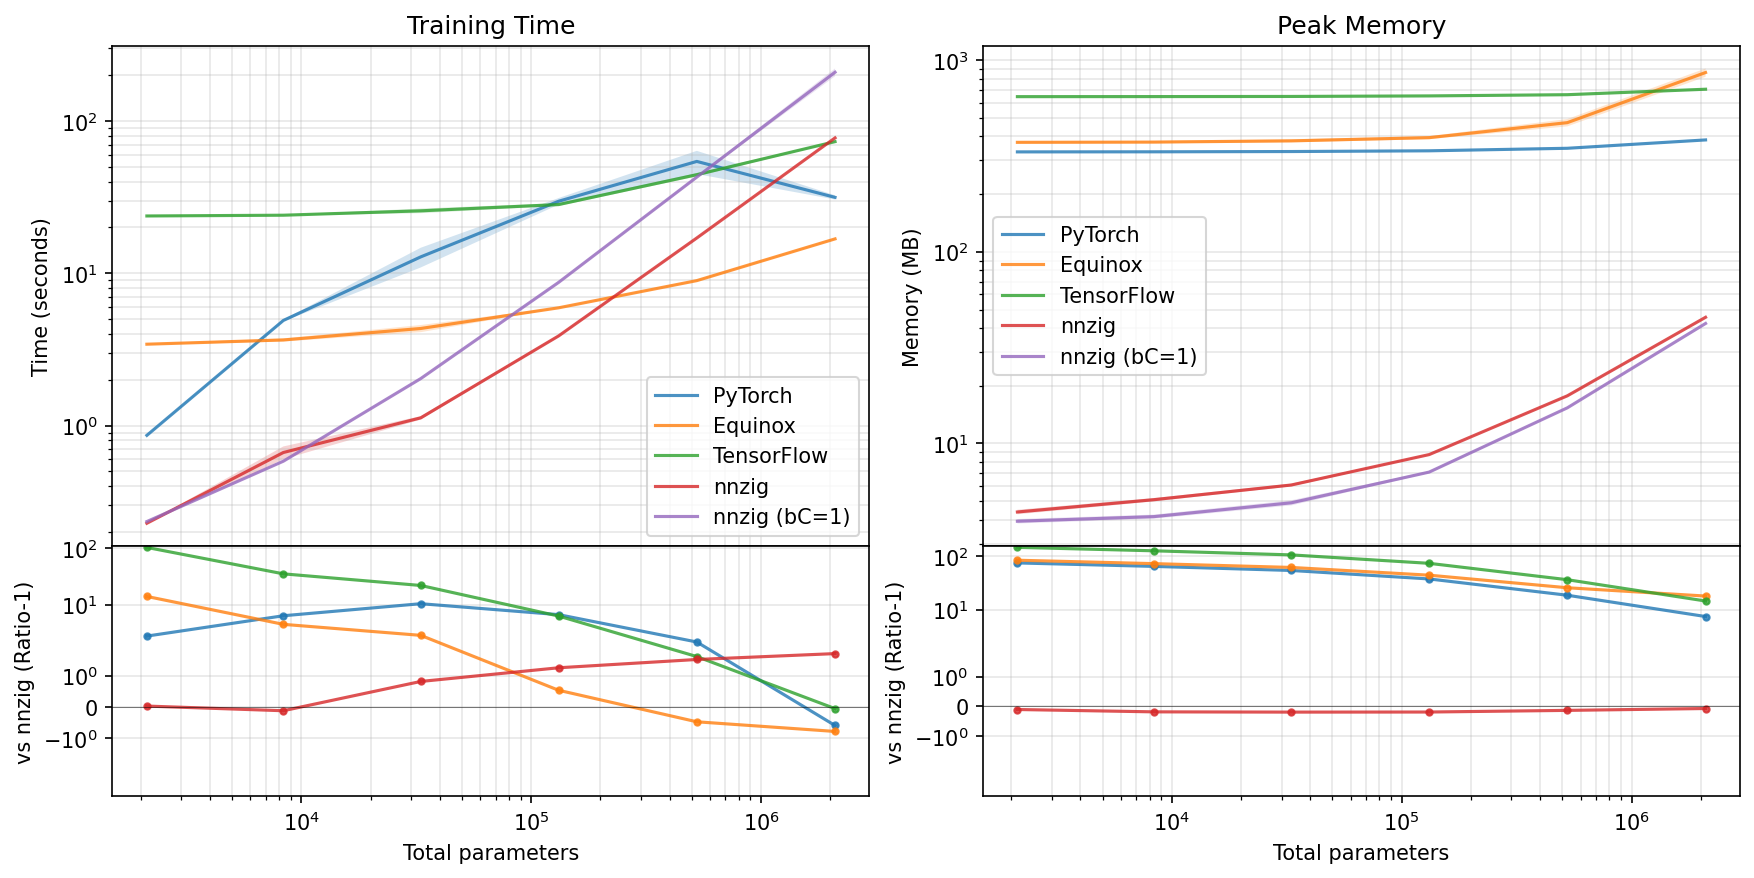
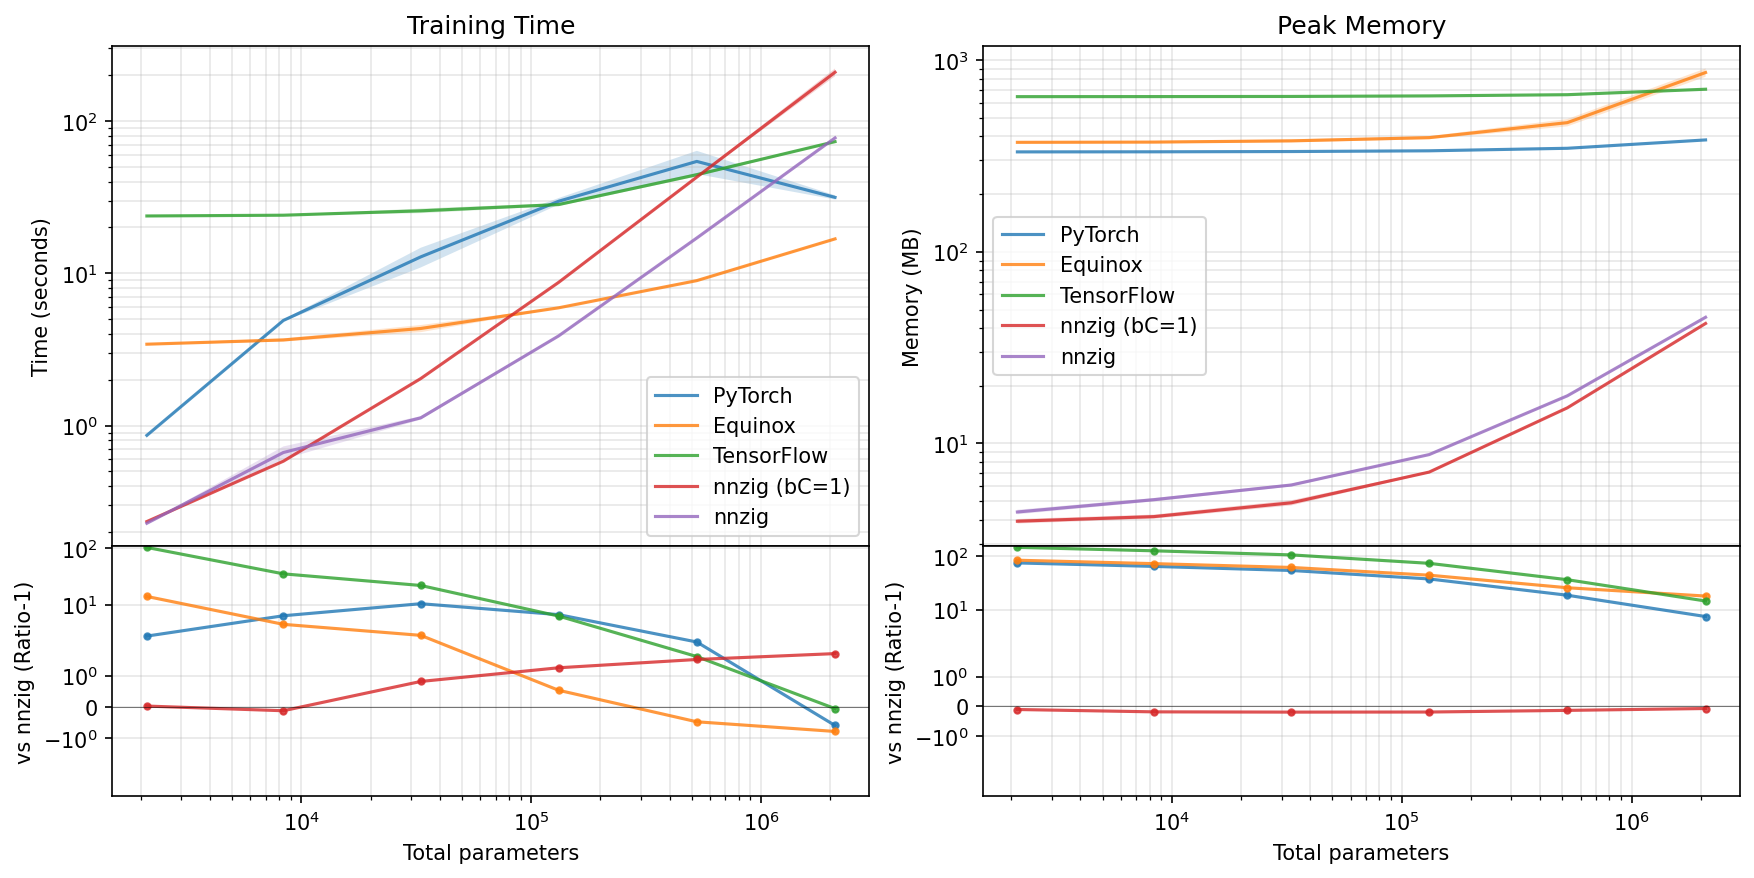
Fixed the color of lines in the resource plot.

diff --git a/benchmarks/plot_resources.py b/benchmarks/plot_resources.py
@@ -11,13 +11,13 @@ from config import load_config
 # Plot order matches plot_losses.py so the default color cycle assigns the
 # same colors across both figures
 # (C0=PyTorch, C1=Equinox, C2=TensorFlow, C3=nnzig, C4=nnzig(bC=1)).
-_LIBS = ("pytorch", "equinox", "tensorflow", "nnzig", "nnzig_b1")
+_LIBS = ("pytorch", "equinox", "tensorflow", "nnzig_b1", "nnzig", )
 _LABELS = {
     "pytorch": "PyTorch",
     "equinox": "Equinox",
     "tensorflow": "TensorFlow",
-    "nnzig": "nnzig",
     "nnzig_b1": "nnzig (bC=1)",
+    "nnzig": "nnzig",
 }
 # Libraries compared against nnzig (full-batch) in the ratio panels: every
 # other series, including the bC=1 variant, to show the memory/speed gap.
